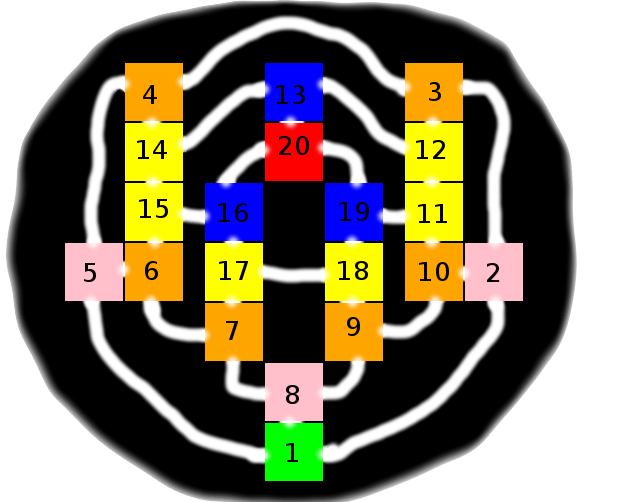
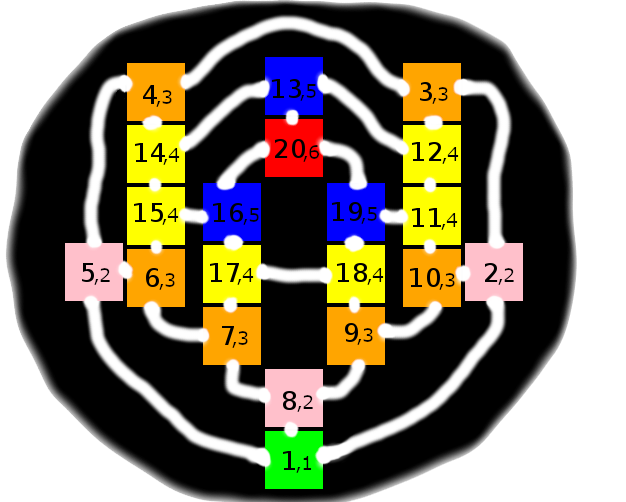
README.md with image and map explanations

Changed region(s): [[0.1214, 0.1494, 0.8195, 0.9861], [0.4249, 0.0896, 0.5463, 0.3586]]

diff --git a/README.md b/README.md
@@ -1,6 +1,6 @@
 # Hunt The Wumpus
 
-## The Wumpus World Simulator
+## 1. The Wumpus World Simulator
 
 Edited, Compiled, Modified by:
 
@@ -30,9 +30,9 @@ to his wikipedia page:
 
 https://en.wikipedia.org/wiki/Gregory_Yob
 
-## How to start the simulation
+## 2. How to start the simulation
 
-### Let the agents play
+### 2.1. Let the agents play
 
 To start an agent, on your shell, type (for example, agent 001):
 
@@ -211,7 +211,7 @@ In this case the agent 001 was successful and returned home with a positive scor
 ?- halt.
 ```
 
-### Let's play manually
+### 2.2. Let's play manually
 
 You can play the game yourself, instead of looking to an agent. To play, you start by calling:
 
@@ -230,7 +230,7 @@ For built-in help, use ?- help(Topic). or ?- apropos(Word).
 Now enter the setup of the world you would like to play, with `manual_setup` and then `manual_init`. Say:
 
 ```
-?- manual_setup([5, grid, walker, 0.2, 0.1, 0.1, [no]]).
+?- manual_setup([5, grid, walker, 0.2, 0.1, 0.1, [no,no]]).
 true.
 
 ?- manual_init.
@@ -282,7 +282,7 @@ Now you can play using the following commands (do not forget to end the line wit
 Lets see a complete game:
 
 ```
-?- manual_setup([5, grid, walker, 0.2, 0.1, 0.1, [no]]).
+?- manual_setup([5, grid, walker, 0.2, 0.1, 0.1, [no,no]]).
 true.
 
 ?- manual_init.
@@ -673,9 +673,9 @@ $
 Phewww... The Wumpus almost got to us! But in the end, it was a complete success.
 
 
-## Agents
+## 3. Agents
 
-### Agent 001 and 005
+### 3.1. Agent 001 and 005
 
 Strategy: 
 
@@ -696,7 +696,7 @@ Note:
     - Agent 001 is for fixed start position of the agent at [1,1]
     - Agent 005 is for random agent start position
 
-### Agent 002
+### 3.2. Agent 002
 
 Strategy:
 
@@ -704,7 +704,7 @@ A prefixed list of actions fine-tuned for the fixed map _Fig 62_. The list have 
 
     - lacoes([goforward,turnleft,goforward,goforward,turnleft,shoot,grab,turnleft,goforward,goforward,turnright,goforward,climb]).
 
-### Agent 004
+### 3.3. Agent 004
 
 Strategy:
 
@@ -712,13 +712,139 @@ Try to solve the Wumpus World without any use of memory.
 
     - To avoid cicles the agent have lists tunned for each situation from where it draw a random member.
 
-### Agent 007
+### 3.4. Agent 007
 
 Strategy:
 
 Headstrong: just go forward, stubborn as a mule, stiff-necked.
 
-## References
+## 4. Maps
+
+As you could see from the images above, one option is the grid map. The other option, the dodecahedron, we will show bellow.
+
+### 4.1. The Grid Map
+
+The grid map option is a NxN square map, with lateral size of N caves, being:
+
+    - N, an integer in the range `[2, 9]`, inclusive.
+
+In the grid option, the coordinates are `[X,Y]`, where:
+    - `X` is the abscissa (horizontal), ranging from 1 (the leftmost caves) to N (the rightmost caves).
+    - `Y` is the ordinate (vertical), ranging from 1 (the bottom) to N (on the top)
+
+Example of a 2x2 cave:
+
+```
+$ swipl -s wumpus.pl 
+Welcome to SWI-Prolog (threaded, 64 bits, version 8.4.3)
+SWI-Prolog comes with ABSOLUTELY NO WARRANTY. This is free software.
+Please run ?- license. for legal details.
+
+For online help and background, visit https://www.swi-prolog.org
+For built-in help, use ?- help(Topic). or ?- apropos(Word).
+
+?- manual_setup([2, grid, walker, 0.2, 0.1, 0.1, [no,no]]).
+true.
+
+?- manual_init.
+[2,grid,walker,0.2,0.1,0.1,[no,no]]
+Reusing setup: Size=2, Type=grid, Move=walker, Gold=0.2, Pit=0.1, Bat=0.1, Adv=
+
+World Setup: [2,grid,walker,0.2,0.1,0.1,[no,no]]
+First Impression: [yes,no,no,no,no,no,[[1,1],0]]
+-------------
+|     |    G|
+-------------
+| A   |W    |
+-------------
+wumpus_move_rule(walker)
+wumpus_health(alive)
+wumpus_orientation(0)
+wumpus_location(2,1)
+wumpus_last_action(sit)
+
+agent_health(alive)
+agent_orientation(0)
+agent_location(1,1)
+agent_arrows(1)
+agent_gold(0)
+true.
+
+?- 
+```
+
+### 4.2 The Dodecahedron
+
+The dodecahedron map is a connected map that resembles a 20-nodes geometric 3D figure that was flatten to the 2D surface. Different from the grid map, where each cave has 4 doors (north, south, east and west) except those on the border, in the dodecahedron map each room has exactly 3 doors, and there is no rooms with more or less than 3 doors.
+
+You cannot understand the dodecahedron doors as being oriented as north/south/east/west. Instead, they are all in a sphere (a circle in 2D actually) that goes around. The coordinates adjust for that. Instead of `x-axis` and `y-axis`, we have:
+
+    - `N` is 20 rooms, fixed.
+    - a pair `[X, Y]` where:
+        - `X` is the cave number. Each cave has its own identifying number, from 1 to 20.
+        - `Y` is the depth, from 1 to 6. 
+
+Note:
+ 
+    - There is only one cave at depth 1, and that is the cave number 1. That means once you get to `[1,1]`, you can climb out of the cave, and this is the only cave where climb is possible.
+    - You will not get lost if you want to get out. No matter where you are, if you always follow the path that leads to a lower depth, you will eventually get to `[1,1]`
+
+That said, mapping this world is of course far more interesting and enjoyable. Make an agent to do so and happy coding.
+
+
+Example of the dodecahedron map:
+
+![Dodecahedron Map](extras/wumpus-dodecahedron-map.png)
+
+Here an example of initialization of the map:
+
+```
+$ swipl -s wumpus.pl 
+Welcome to SWI-Prolog (threaded, 64 bits, version 8.4.3)
+SWI-Prolog comes with ABSOLUTELY NO WARRANTY. This is free software.
+Please run ?- license. for legal details.
+
+For online help and background, visit https://www.swi-prolog.org
+For built-in help, use ?- help(Topic). or ?- apropos(Word).
+
+?- manual_setup([20, dodeca, walker, 0.2, 0.1, 0.1, [no,no]]).
+true.
+
+?- manual_init.
+[20,dodeca,walker,0.2,0.1,0.1,[no,no]]
+Reusing setup: Size=20, Type=dodeca, Move=walker, Gold=0.2, Pit=0.1, Bat=0.1, Adv=
+
+World Setup: [20,dodeca,walker,0.2,0.1,0.1,[no,no]]
+First Impression: [no,no,no,no,no,no,[[1,1],0]]
+-------------------
+|     |     |     |
+-------------------
+|     | A   |    G|
+-------------------
+|     |     |     |
+-------------------
+wumpus_move_rule(walker)
+wumpus_health(alive)
+wumpus_orientation(0)
+wumpus_location(3,3)
+wumpus_last_action(sit)
+
+agent_health(alive)
+agent_orientation(0)
+agent_location(1,1)
+agent_arrows(1)
+agent_gold(0)
+true.
+
+?- 
+```
+
+The grid shown is a 3x3 map centered in the Agent: that is, no matter where you move, the `A` letter will always be on the center of this small piece of map.
+
+In the example above, the agent is on `[1,1]`, that is, cave 1, depth 1. In this particular cave, there is no south door, but the map doesn't show this information. If you try to go south, you will bump in the wall.
+
+
+## 5. References
 
 * Original Wumpus version 1: http://www.atariarchives.org/bcc1/showpage.php?page=247
 * Original Wumpus version 2: http://www.atariarchives.org/bcc2/showpage.php?page=244
